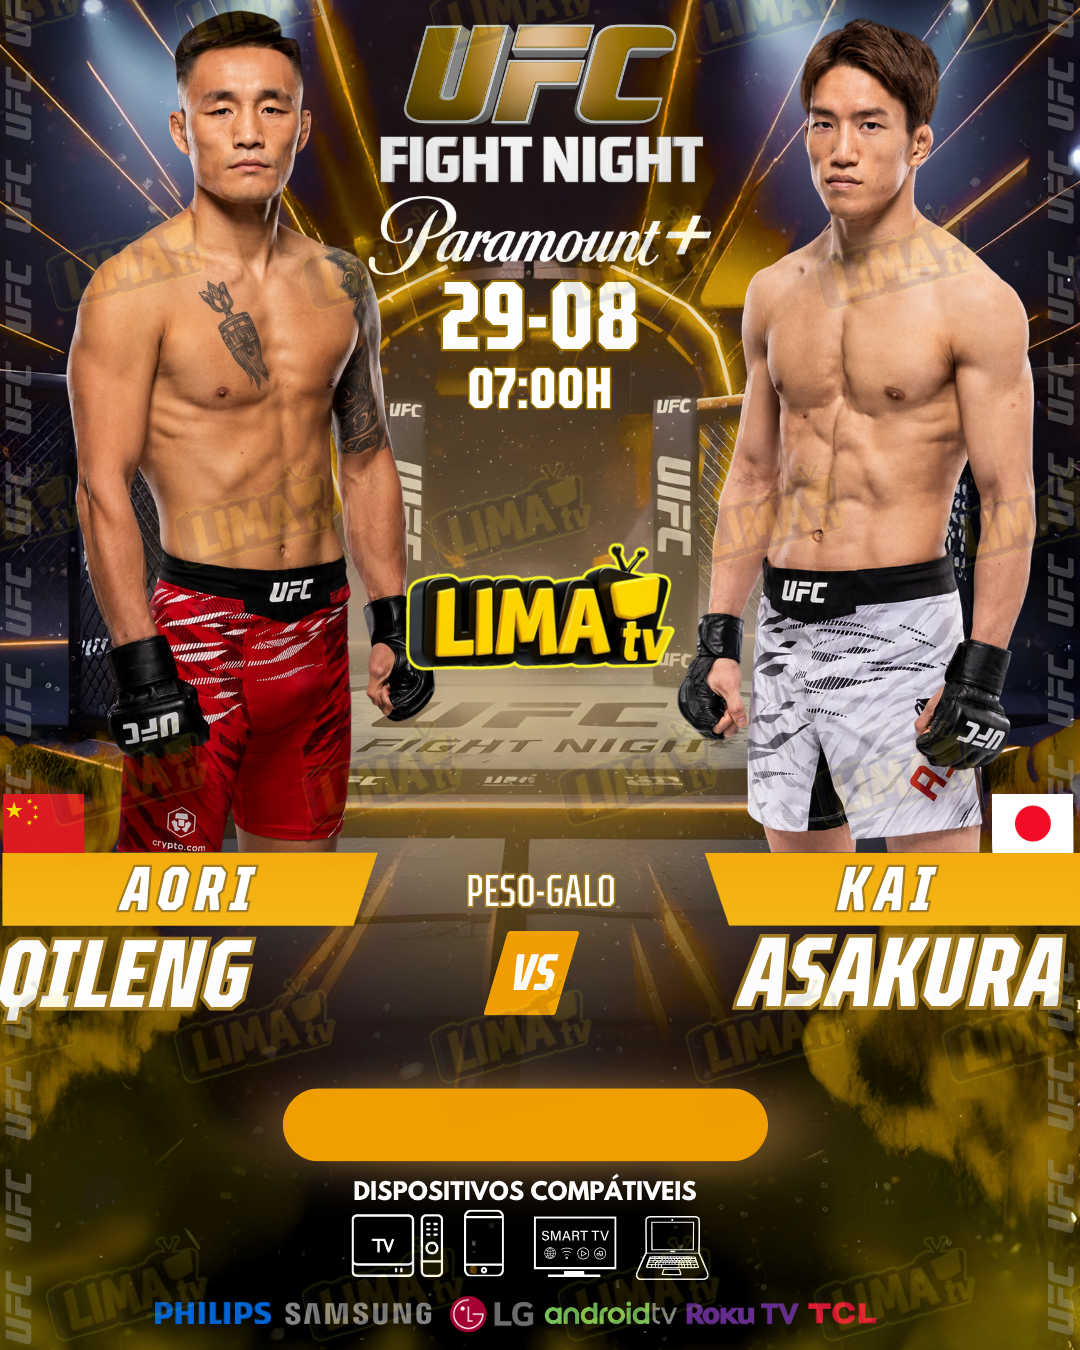
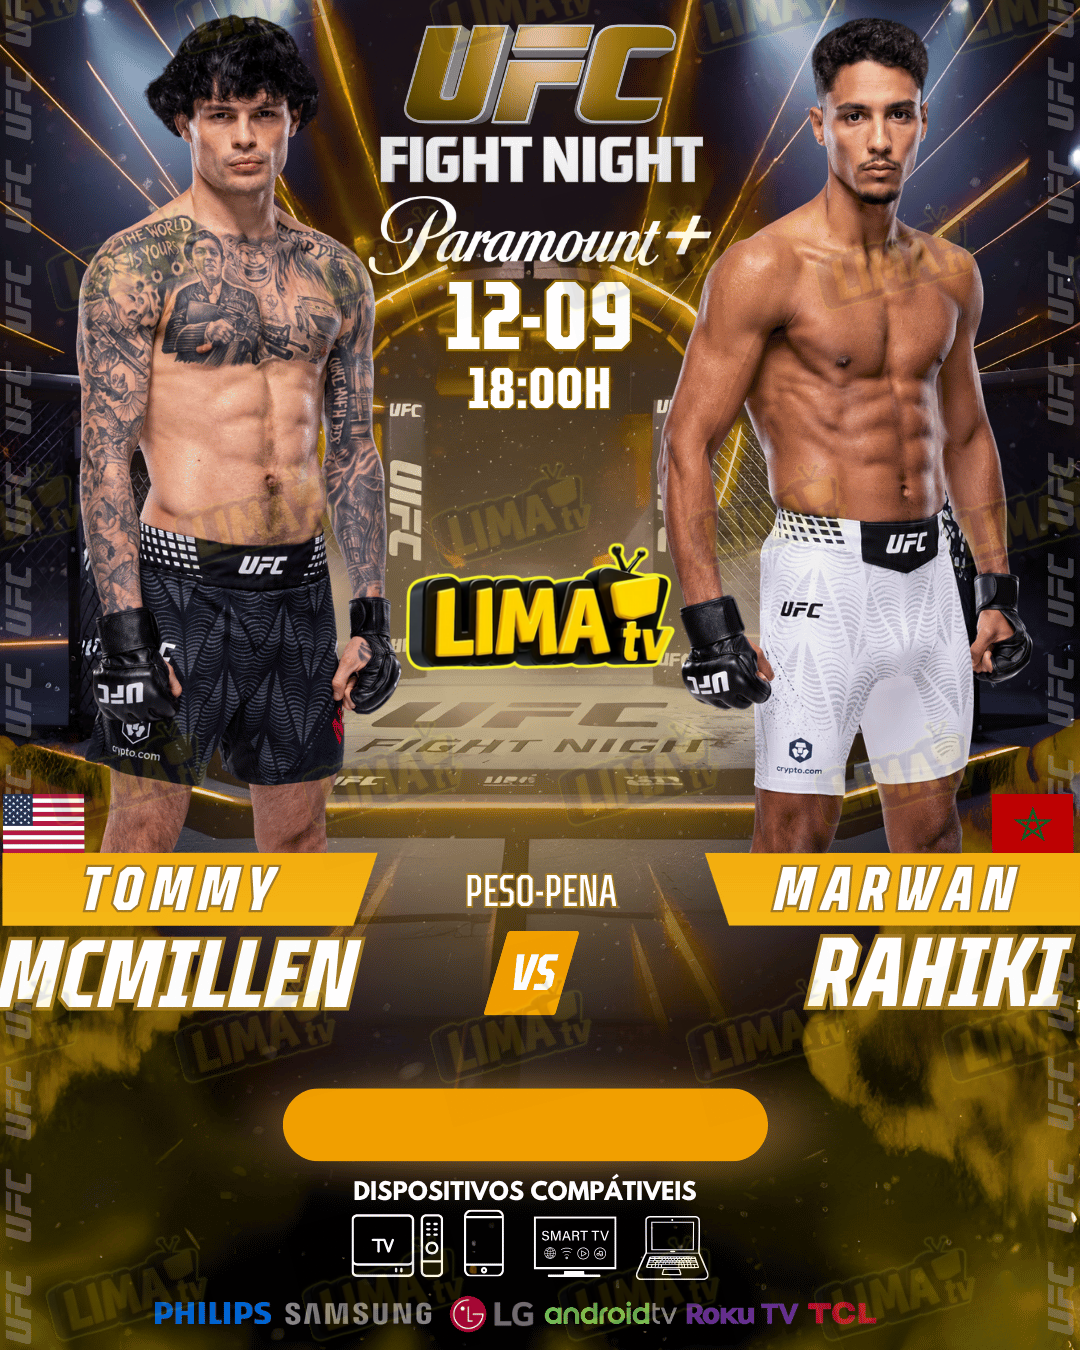
atualizacao 12/09/2026

diff --git a/index.html b/index.html
@@ -129,7 +129,7 @@
           <div class="container-imagens">
             <div>
               <img
-                src="futebol/capa_com_logo.png?v=11/09/06"
+                src="futebol/capa_com_logo.png?v=12/09/06"
                 alt="Jogos de futebol de hoje com horários e onde assistir"
                 width="300"
                 height="400"
@@ -140,7 +140,55 @@
 
             <div>
               <img
-                src="futebol/banner_1.png?v=11/09/06"
+                src="futebol/banner_1.png?v=12/09/06"
+                alt="Jogos de futebol de hoje com horários e onde assistir"
+                width="300"
+                height="400"
+                loading="lazy"
+              />
+              <button class="btn-fullscreen">Ver em Tela Cheia</button>
+            </div>
+
+            
+            <div>
+              <img
+                src="futebol/banner_2.png?v=12/09/06"
+                alt="Jogos de futebol de hoje com horários e onde assistir"
+                width="300"
+                height="400"
+                loading="lazy"
+              />
+              <button class="btn-fullscreen">Ver em Tela Cheia</button>
+            </div>
+
+            
+            <div>
+              <img
+                src="futebol/banner_3.png?v=12/09/06"
+                alt="Jogos de futebol de hoje com horários e onde assistir"
+                width="300"
+                height="400"
+                loading="lazy"
+              />
+              <button class="btn-fullscreen">Ver em Tela Cheia</button>
+            </div>
+
+            
+            <div>
+              <img
+                src="futebol/banner_4.png?v=12/09/06"
+                alt="Jogos de futebol de hoje com horários e onde assistir"
+                width="300"
+                height="400"
+                loading="lazy"
+              />
+              <button class="btn-fullscreen">Ver em Tela Cheia</button>
+            </div>
+
+            
+            <div>
+              <img
+                src="futebol/banner_5.png?v=12/09/06"
                 alt="Jogos de futebol de hoje com horários e onde assistir"
                 width="300"
                 height="400"
@@ -224,13 +272,13 @@
           vivo.
         </p>
 
-        <p>PRÓXIMO EVENTO DIA 12/09/2026</p>
+        <!-- <p>PRÓXIMO EVENTO DIA 12/09/2026</p> -->
 
         <div class="div-imagens">
           <div class="container-imagens">
-            <!-- <div>
+            <div>
               <img
-                src="ufc/capa_com_logo.png?v=29/08/2026"
+                src="ufc/capa_com_logo.png?v=12/09/2026"
                 alt="Evento UFC hoje com horário e transmissão"
                 width="300"
                 height="400"
@@ -241,19 +289,76 @@
 
             <div>
               <img
-                src="ufc/banner_1.png?v=29/08/2026"
+                src="ufc/banner_1.png?v=12/09/2026"
                 alt="Evento UFC hoje com horário e transmissão"
                 width="300"
                 height="400"
                 loading="lazy"
               />
               <button class="btn-fullscreen">Ver em Tela Cheia</button>
-            </div> -->
+            </div>
 
-            
           
-       
-           
+            <div>
+              <img
+                src="ufc/banner_2.png?v=12/09/2026"
+                alt="Evento UFC hoje com horário e transmissão"
+                width="300"
+                height="400"
+                loading="lazy"
+              />
+              <button class="btn-fullscreen">Ver em Tela Cheia</button>
+            </div>
+
+          
+            <div>
+              <img
+                src="ufc/banner_3.png?v=12/09/2026"
+                alt="Evento UFC hoje com horário e transmissão"
+                width="300"
+                height="400"
+                loading="lazy"
+              />
+              <button class="btn-fullscreen">Ver em Tela Cheia</button>
+            </div>
+
+          
+            <div>
+              <img
+                src="ufc/banner_4.png?v=12/09/2026"
+                alt="Evento UFC hoje com horário e transmissão"
+                width="300"
+                height="400"
+                loading="lazy"
+              />
+              <button class="btn-fullscreen">Ver em Tela Cheia</button>
+            </div>
+
+          
+            <div>
+              <img
+                src="ufc/banner_5.png?v=12/09/2026"
+                alt="Evento UFC hoje com horário e transmissão"
+                width="300"
+                height="400"
+                loading="lazy"
+              />
+              <button class="btn-fullscreen">Ver em Tela Cheia</button>
+            </div>
+
+          
+            <div>
+              <img
+                src="ufc/banner_6.png?v=12/09/2026"
+                alt="Evento UFC hoje com horário e transmissão"
+                width="300"
+                height="400"
+                loading="lazy"
+              />
+              <button class="btn-fullscreen">Ver em Tela Cheia</button>
+            </div>
+
+          
             
           </div>
         </div>
@@ -272,7 +377,7 @@
           <div class="container-imagens">
             <div>
               <img
-                src="esportes/banner_1.png?=v11/09/2026"
+                src="esportes/banner_1.png?=v12/09/2026"
                 alt="Evento ESPORTES hoje com horário e transmissão"
                 width="300"
                 height="400"
@@ -283,7 +388,7 @@
 
             <div>
               <img
-                src="esportes/banner_2.png?=11/09/2026"
+                src="esportes/banner_2.png?=12/09/2026"
                 alt="Evento ESPORTES hoje com horário e transmissão"
                 width="300"
                 height="400"
@@ -295,7 +400,20 @@
           
             <div>
               <img
-                src="esportes/banner_3.png?=11/09/2026"
+                src="esportes/banner_3.png?=12/09/2026"
+                alt="Evento ESPORTES hoje com horário e transmissão"
+                width="300"
+                height="400"
+                loading="lazy"
+              />
+              <button class="btn-fullscreen">Ver em Tela Cheia</button>
+            </div>
+
+          
+          
+            <div>
+              <img
+                src="esportes/banner_4.png?=12/09/2026"
                 alt="Evento ESPORTES hoje com horário e transmissão"
                 width="300"
                 height="400"
